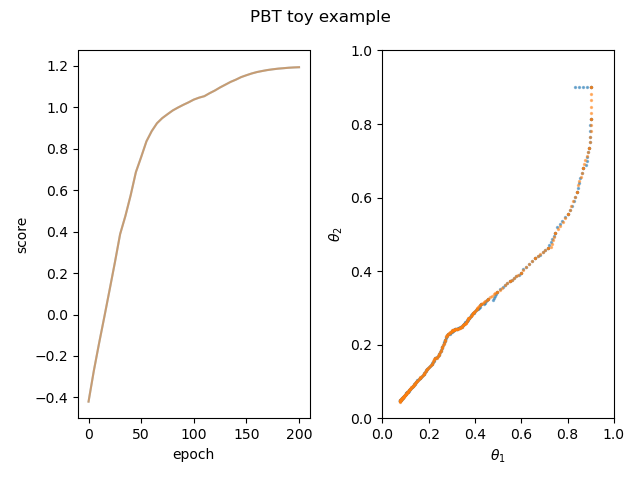
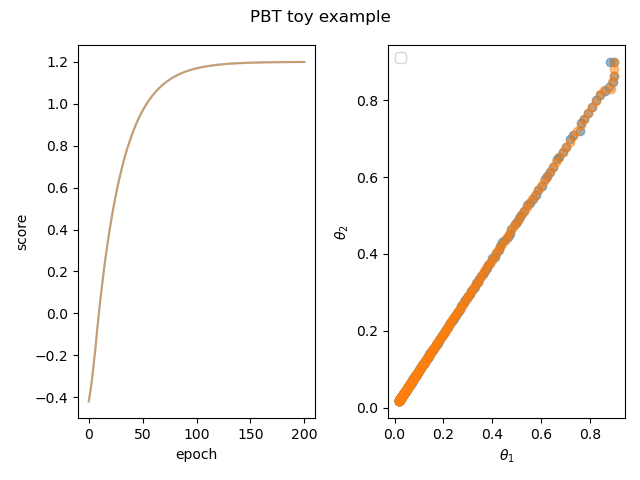
benchmark test

diff --git a/example/analysis.py b/example/analysis.py
@@ -62,17 +62,17 @@ def visualize(df_res, df_tim):
     df = df.rename(columns={0: 'loss', 'level_2': 'loss_type'})
     df['log loss'] = np.log(df['loss'].values)
 
-    g = sns.FacetGrid(df,
-                      col="loss_type",
-                      hue="search alg",
-                      height=4.5,
-                      sharex=False,
-                      sharey=True,
-                      despine=False)
-    g.map(sns.lineplot, 'call', 'log loss')
-    # sns.lineplot(x="call", y="log loss",
-    #              hue="search alg", style="loss_type",
-    #              data=df)
+    # g = sns.FacetGrid(df,
+    #                   col="loss_type",
+    #                   hue="search alg",
+    #                   height=4.5,
+    #                   sharex=False,
+    #                   sharey=True,
+    #                   despine=False)
+    # g.map(sns.lineplot, 'call', 'log loss')
+    sns.lineplot(x="call", y="log loss",
+                 hue="search alg", #style="loss_type",
+                 data=df)
     # plt.legend(labels=plt.gca().get_legend_handles_labels()[1][:len(np.unique(df['search alg'].values))],bbox_to_anchor=(1.05, 0.5), loc='center left', borderaxespad=0)
     plt.legend(bbox_to_anchor=(1.05, 0.5), loc='center left', borderaxespad=0)
 
@@ -89,17 +89,17 @@ def visualize(df_res, df_tim):
     ]).sort_index()
     df_.loc[:, ['loss', 'log loss']] = tmp
 
-    g = sns.FacetGrid(df_,
-                      col="loss_type",
-                      hue="search alg",
-                      height=4.5,
-                      sharex=False,
-                      sharey=True,
-                      despine=False)
-    g.map(sns.lineplot, 'call', 'log loss')
-    # sns.lineplot(x="call", y="log loss",
-    #              hue="search alg", style="loss_type",
-    #              data=df_)
+    # g = sns.FacetGrid(df_,
+    #                   col="loss_type",
+    #                   hue="search alg",
+    #                   height=4.5,
+    #                   sharex=False,
+    #                   sharey=True,
+    #                   despine=False)
+    # g.map(sns.lineplot, 'call', 'log loss')
+    sns.lineplot(x="call", y="log loss",
+                 hue="search alg", #style="loss_type",
+                 data=df_)
     plt.legend(labels=plt.gca().get_legend_handles_labels()[1]
                [:len(np.unique(df['search alg'].values))],
                bbox_to_anchor=(1.05, 0.5),

diff --git a/example/demo.py b/example/demo.py
@@ -72,13 +72,24 @@ def main(cfg_clone):
 
 
 if __name__ == '__main__':
+    toy_bbo_cfg_files = [
+        "toy_gp.yaml",
+        "toy_anneal.yaml",
+        "toy_bore.yaml",
+        "toy_cem.yaml",
+        "toy_cma.yaml",
+        "toy_de.yaml",
+        "toy_rea.yaml",
+        "toy_rs.yaml",
+        "toy_tpe.yaml"
+    ]
 
-    # for file in glob.iglob('./cfgs/toy*.yaml'):
-    #     cfg_clone = cfg.clone()
-    #     cfg.freeze()
-    #     load_cfg_fom_args(cfg_clone, argv=['-c', file, '-r', '3'])
-    #     main(cfg_clone)
-    #     cfg.defrost()
+    for file in toy_bbo_cfg_files:
+        cfg_clone = cfg.clone()
+        cfg.freeze()
+        load_cfg_fom_args(cfg_clone, argv=['-c', './cfgs/'+file, '-r', '3'])
+        main(cfg_clone)
+        cfg.defrost()
 
     # cfg_clone = cfg.clone()
     # cfg.freeze()
@@ -94,12 +105,12 @@ if __name__ == '__main__':
     # # load_cfg_fom_args(cfg_clone, argv=['-c', '../cfgs/toy_bore.yaml', '-r', 1])
     # cfg_clone = cfg.clone()
     # # load_cfg_fom_args(cfg_clone, argv=['-c', '../cfgs/toy_hyperopt.yaml', '-r', 1])
-    cfg_clone = cfg.clone()
+    # cfg_clone = cfg.clone()
     # load_cfg_fom_args(cfg_clone, argv=['-c', './cfgs/toy_nevergrad.yaml', '-r', '1'])
     # load_cfg_fom_args(cfg_clone, argv=['-c', './cfgs/toy_de.yaml', '-r', '1'])
     # load_cfg_fom_args(cfg_clone, argv=['-c', './cfgs/toy_cma.yaml', '-r', '1'])
     # load_cfg_fom_args(cfg_clone, argv=['-c', './cfgs/toy_nsga.yaml', '-r', '1'])
-    load_cfg_fom_args(cfg_clone, argv=['-c', './cfgs/pbt_mnist.yaml', '-r', '1'])
+    # load_cfg_fom_args(cfg_clone, argv=['-c', './cfgs/pbt_mnist.yaml', '-r', '1'])
     # load_cfg_fom_args(cfg_clone, argv=['-c', './cfgs/pbt_toy.yaml', '-r', '1'])
 
     # load_cfg_fom_args(cfg_clone, argv=['-c', './cfgs/toy_rea.yaml', '-r', '1'])
@@ -112,5 +123,5 @@ if __name__ == '__main__':
     # # load_cfg_fom_args(cfg_clone, argv=['-c', '../cfgs/toy_pysot.yaml', '-r', 1])
     # cfg_clone = cfg.clone()
     # load_cfg_fom_args(cfg_clone, argv=['-c', '../cfgs/toy_scikit.yaml', '-r', 1])
-    main(cfg_clone)
+    # main(cfg_clone)
     # benchmark_opt()

diff --git a/bbomark/surrogate/gaussian_process.py b/bbomark/surrogate/gaussian_process.py
@@ -309,7 +309,7 @@ class GaussianProcessRegressorARD_torch(Surrogate):
         self.X_observed = torch.empty(size=(0, dim))
 
     def transform_outputs(self, y: np.array):
-        return y # TODO
+        # return y # TODO
         psi = self.normalizer(y)
         z = psi.transform(y)
         return z

diff --git a/README.md b/README.md
@@ -4,6 +4,12 @@
 
 ### 2021年10月3日
 
+#### benchmark
+
+![](./out/ana_res1633261723.562191.png)
+
+![](./out/ana_res1633261920.3910887.png)
+
 PBT(Population based training)
 
 ![](./out/PBT_mnist.png)
